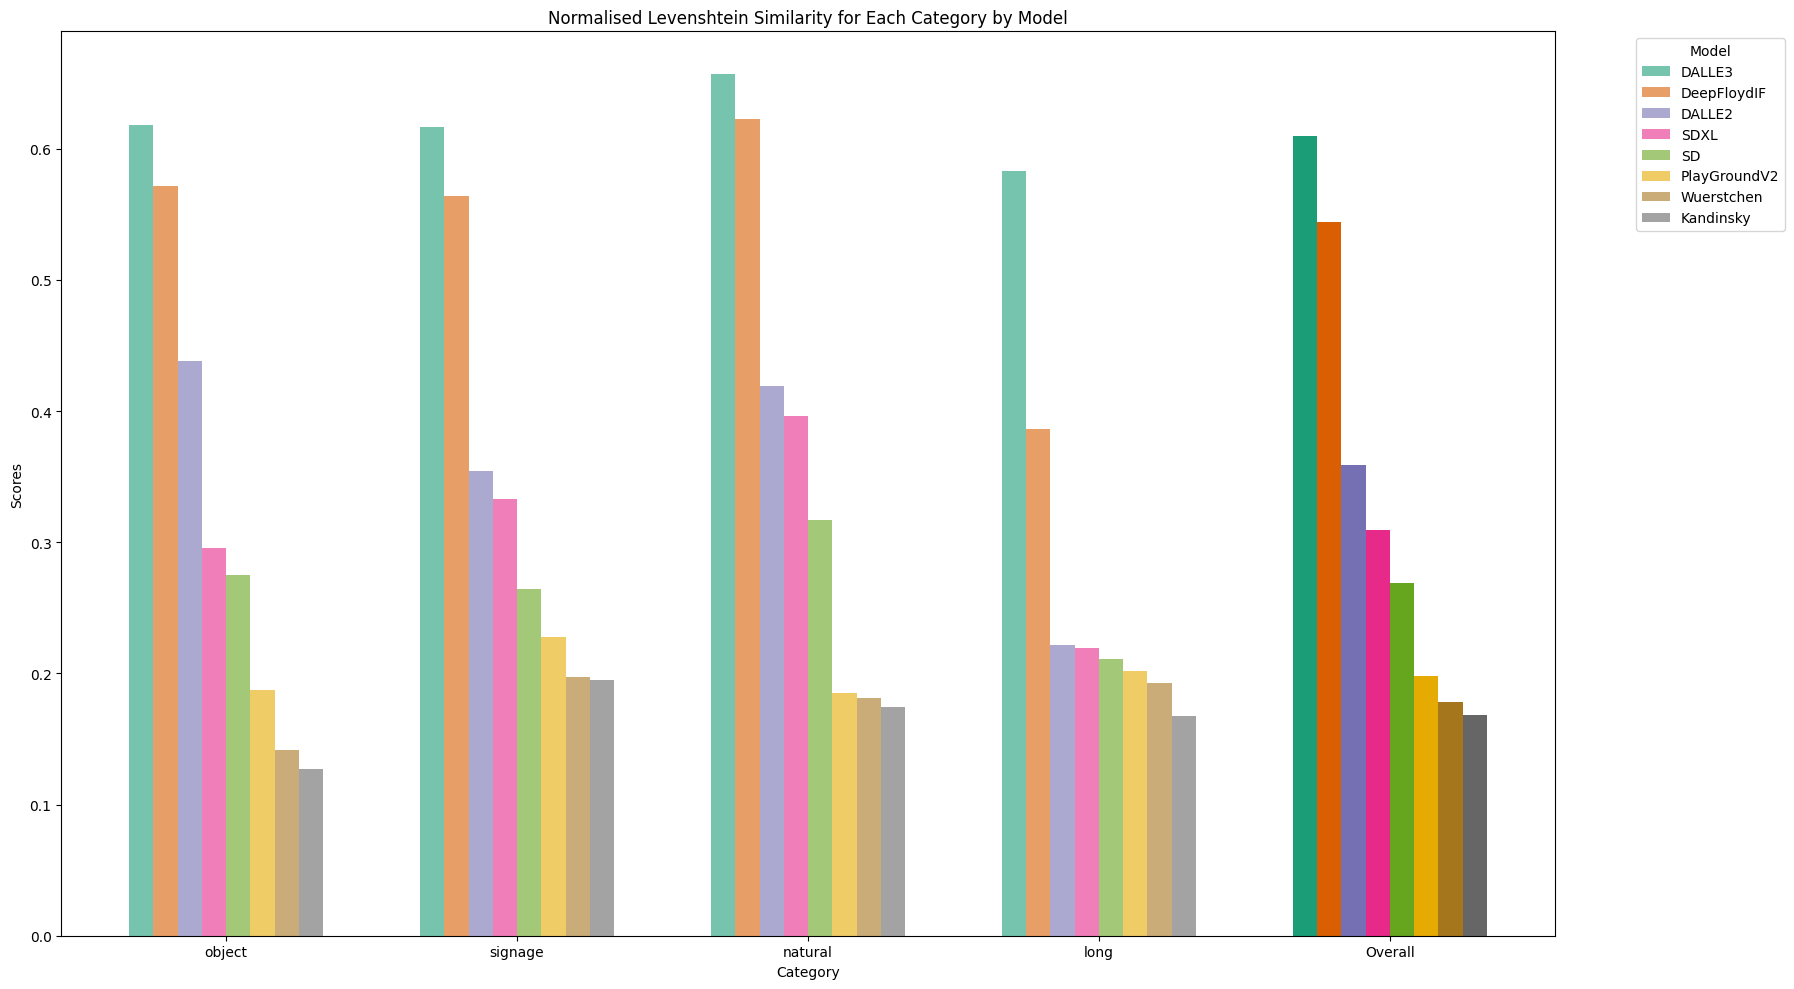
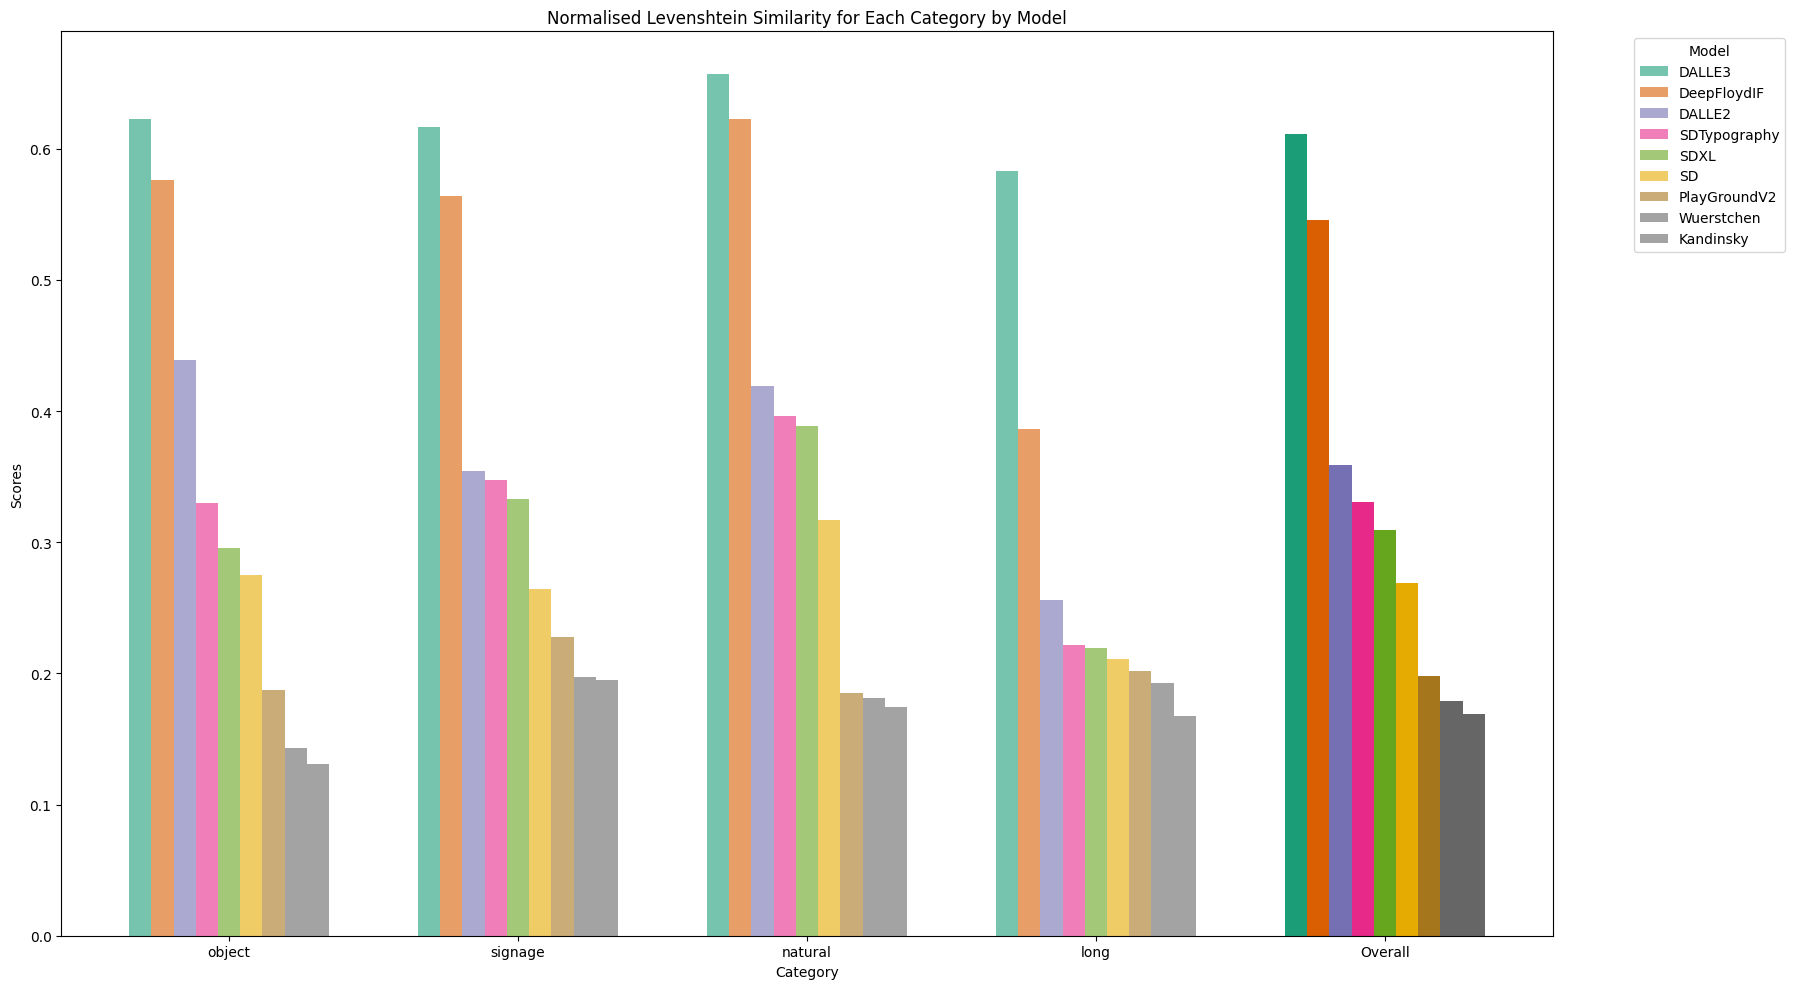
Update plot for SDTypography

diff --git a/arguments.py b/arguments.py
@@ -3,8 +3,7 @@ import argparse
 def parse_args():
     parser = argparse.ArgumentParser(description="Image Generation Spelling Benchmark")
     parser.add_argument('--model_list', type=list, help='List of models', default=[
-        # "DALLE2", "DALLE3", "Kandinsky", "DeepFloydIF", "Wuerstchen", "SD", "SDXL", "PlayGroundV2"
-        "SDTypography"
+        "DALLE2", "DALLE3", "Kandinsky", "DeepFloydIF", "Wuerstchen", "SD", "SDXL", "PlayGroundV2", "SDTypography"
         ])
     parser.add_argument('--num_samples_each_type', type=str, help='Number of images to generate and test from each prompt type', default=50)
     parser.add_argument('--DEBUG', action='store_true', help='DEBUG mode')

diff --git a/calculate_scores.py b/calculate_scores.py
@@ -42,6 +42,7 @@ def calculate_scores(args):
     df = pd.DataFrame.from_dict(data_for_df, orient='index')
     df.reset_index(inplace=True)
     df.rename(columns={'index': 'Model'}, inplace=True)
+    df.sort_values(by=['Overall'], inplace=True, ascending=False)
     df.to_csv("outputs/final_scores.csv", index=False)
     print(df)
 
